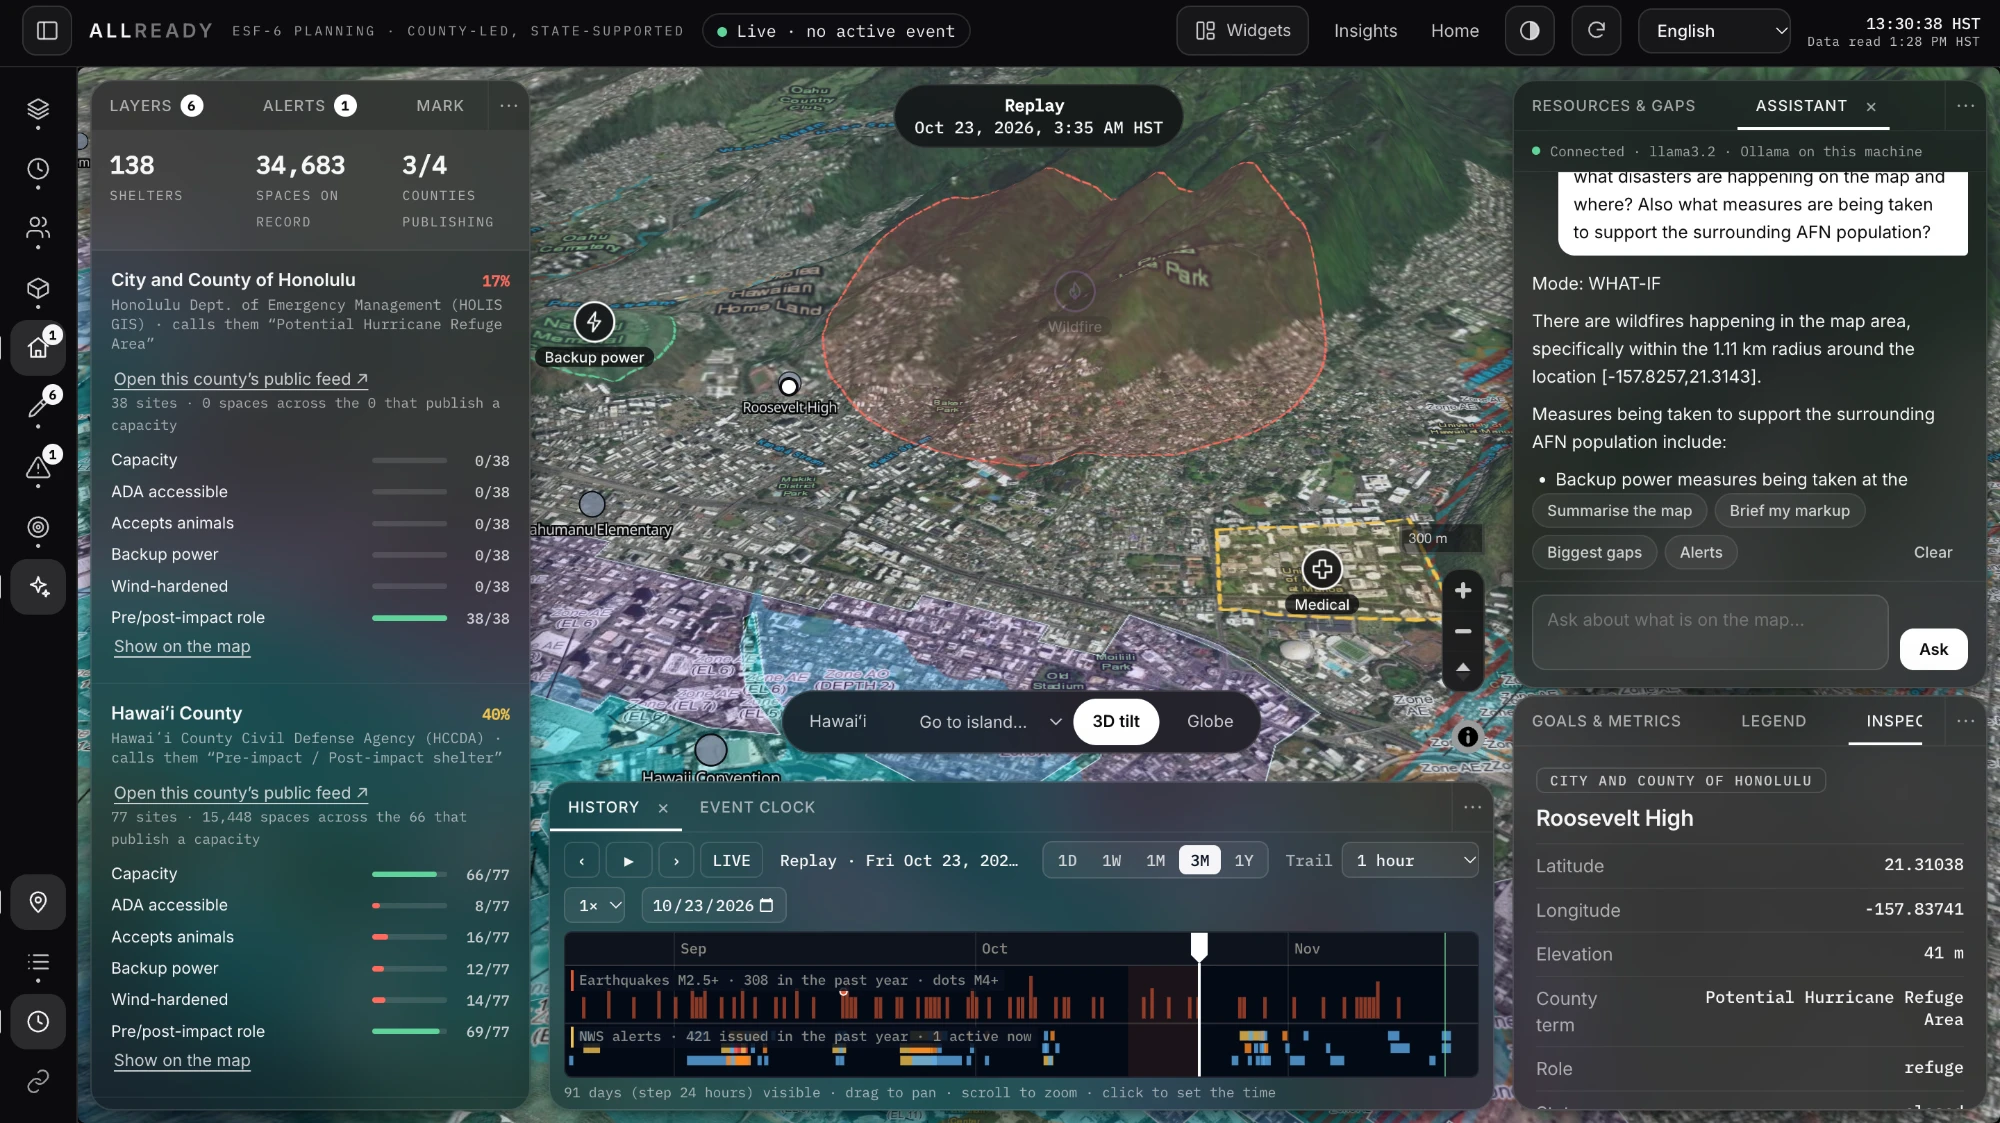
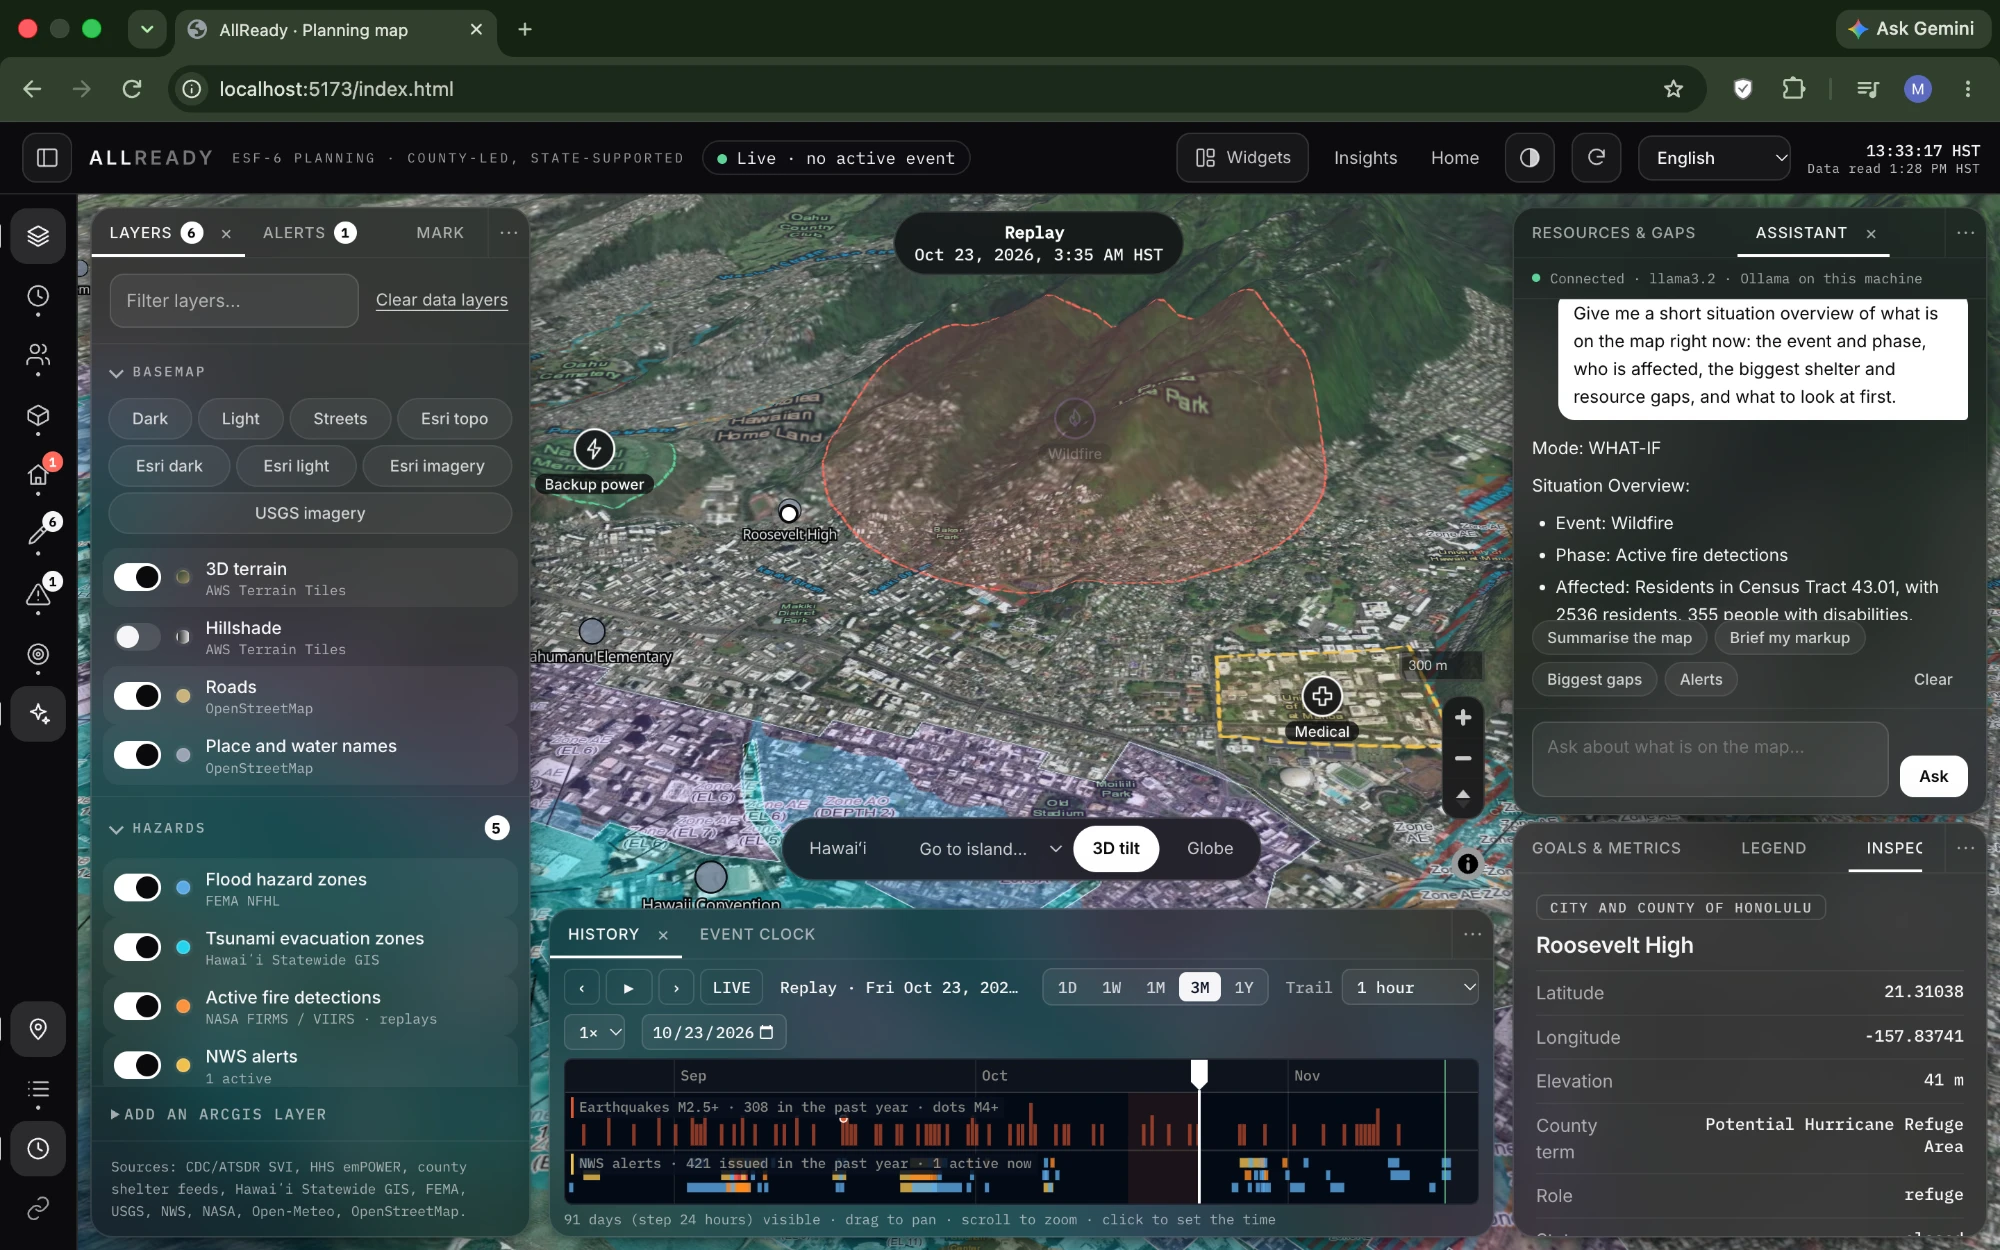
README: final map screenshot

diff --git a/README.md b/README.md
@@ -5,7 +5,7 @@ HAIC 2026 · AI-Developed Planning and Improvement Challenge · Department of Hu
 
 ![AllReady planning map: layers and alerts on the left, history timeline below, the assistant and inspector on the right](docs/images/map.png)
 
-*The planning map replaying 23 Oct 2026: shelter readiness by county on the left, the history timeline below, and the assistant and inspector on the right. A what-if scenario and the planner's markup are drawn on the map.*
+*The planning map: Layers and Alerts on the left, the History timeline below, and the Assistant and Inspector on the right. A what-if wildfire scenario and the planner's markup are drawn on the map, and the assistant is summarising them.*
 
 > AllReady issues no alerts. In an emergency follow official county announcements and call 911.
 
